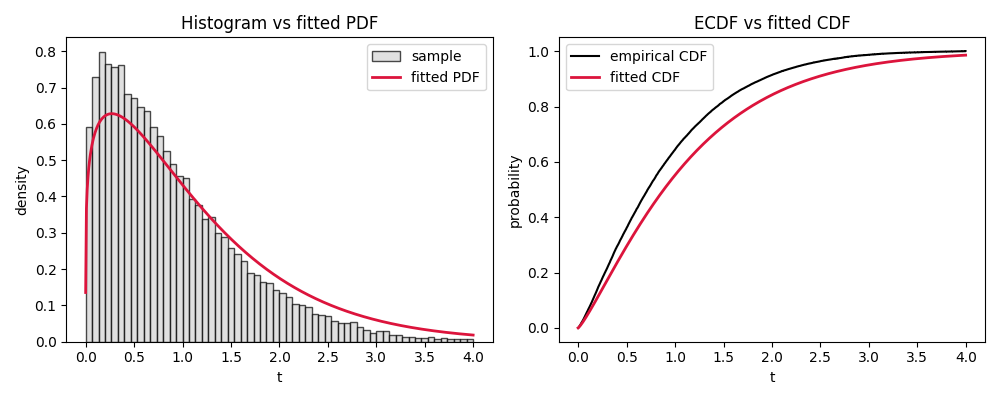
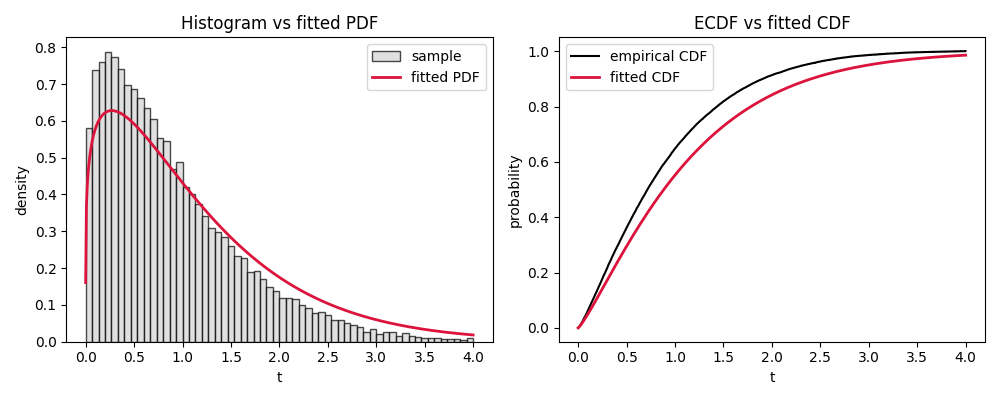
Making Ruff changes

diff --git a/analysis/distributions.py b/analysis/distributions.py
@@ -1,7 +1,7 @@
 import matplotlib.pyplot as plt
 import numpy as np
-from scipy.stats import gamma, lognorm, norm, weibull_min
 from scipy.optimize import minimize
+from scipy.stats import weibull_min
 
 
 def fit_dist(data, nll_func, survival_data=None, initial_params=None):
@@ -28,9 +28,13 @@ def fit_dist(data, nll_func, survival_data=None, initial_params=None):
         initial_params = (1.0, 1.0)
 
     # Minimize the negative log likelihood
-    result = minimize(nll_func, initial_params,
-                      args=(data, survival_data), method='L-BFGS-B',
-                      bounds=((1e-5, None), (1e-5, None)))
+    result = minimize(
+        nll_func,
+        initial_params,
+        args=(data, survival_data),
+        method="L-BFGS-B",
+        bounds=((1e-5, None), (1e-5, None)),
+    )
 
     if result.success:
         return result.x
@@ -38,8 +42,6 @@ def fit_dist(data, nll_func, survival_data=None, initial_params=None):
         raise RuntimeError("Parameter fitting failed.")
 
 
-
-# Weibull distribution class, implements the PDF and CDF, and the log likelihood as above. Change all functions to take only named parameters, so wrap the scipy functions to achieve this. Fit function that updates the parameters.
 class WeibullDistribution:
     """
     Weibull distribution class.
@@ -61,7 +63,7 @@ class WeibullDistribution:
 
     def cdf(self, x):
         return weibull_min.cdf(x, self.shape, scale=self.scale)
-    
+
     def gen_neg_log_likelihood(self, params, data, survival_data=None):
         """
         Compute the log likelihood of the Weibull distribution given the data,
@@ -89,11 +91,11 @@ class WeibullDistribution:
 
         # Add log likelihood for survival data if provided
         if survival_data is not None:
-            log_likelihood += np.sum(weibull_min.logsf(survival_data, shape, scale=scale))
+            log_likelihood += np.sum(
+                weibull_min.logsf(survival_data, shape, scale=scale)
+            )
 
         return -log_likelihood
-        #return weibull_log_likelihood((self.shape, self.scale), data, survival_data)
-    
 
     def neg_log_likelihood(self, data, survival_data=None):
         """
@@ -113,11 +115,14 @@ class WeibullDistribution:
         float
             Log likelihood value.
         """
-        return self.gen_neg_log_likelihood((self.shape, self.scale), data, survival_data)
-    
+        return self.gen_neg_log_likelihood(
+            (self.shape, self.scale), data, survival_data
+        )
+
     def fit(self, data, survival_data=None):
         """
-        Fit the Weibull distribution to the data using maximum likelihood estimation.
+        Fit the Weibull distribution to the data using
+        maximum likelihood estimation.
 
         Parameters
         ----------
@@ -133,12 +138,13 @@ class WeibullDistribution:
             Fitted parameters (shape, scale).
         """
         # Fit the Weibull distribution to the data
-        params = fit_dist(data, self.gen_neg_log_likelihood, survival_data, initial_params=(self.shape, self.scale))
+        params = fit_dist(
+            data,
+            self.gen_neg_log_likelihood,
+            survival_data,
+            initial_params=(self.shape, self.scale),
+        )
         self.shape, self.scale = params
-
-
-
-
 
 
 def plot_fit(samples, dist_obj, output_name, bins=60, title=None):
@@ -170,10 +176,18 @@ def plot_fit(samples, dist_obj, output_name, bins=60, title=None):
         fig.suptitle(title, fontsize=14, y=1.02)
 
     # -------- PDF panel -----------------------------------------------------
-    axs[0].hist(samples, bins=bins, density=True,
-                color="lightgrey", edgecolor="k", alpha=0.7, label="sample")
-    axs[0].plot(x_plot, dist_obj.pdf(x_plot), lw=2, color="crimson",
-                label="fitted PDF")
+    axs[0].hist(
+        samples,
+        bins=bins,
+        density=True,
+        color="lightgrey",
+        edgecolor="k",
+        alpha=0.7,
+        label="sample",
+    )
+    axs[0].plot(
+        x_plot, dist_obj.pdf(x_plot), lw=2, color="crimson", label="fitted PDF"
+    )
     axs[0].set_xlabel("t")
     axs[0].set_ylabel("density")
     axs[0].set_title("Histogram vs fitted PDF")
@@ -182,10 +196,12 @@ def plot_fit(samples, dist_obj, output_name, bins=60, title=None):
     # -------- CDF panel -----------------------------------------------------
     sorted_x = np.sort(samples)
     ecdf = np.arange(1, len(sorted_x) + 1) / len(sorted_x)
-    axs[1].step(sorted_x, ecdf, where="post",
-                color="black", label="empirical CDF")
-    axs[1].plot(x_plot, dist_obj.cdf(x_plot),
-                lw=2, color="crimson", label="fitted CDF")
+    axs[1].step(
+        sorted_x, ecdf, where="post", color="black", label="empirical CDF"
+    )
+    axs[1].plot(
+        x_plot, dist_obj.cdf(x_plot), lw=2, color="crimson", label="fitted CDF"
+    )
     axs[1].set_xlabel("t")
     axs[1].set_ylabel("probability")
     axs[1].set_title("ECDF vs fitted CDF")

diff --git a/analysis/censoring_test.py b/analysis/censoring_test.py
@@ -1,0 +1,109 @@
+from pathlib import Path
+
+import distributions as cd
+import numpy as np
+from scipy.stats import weibull_min
+
+num_pixels = 10000
+time_interval = 4
+
+# Count total time taken
+remaining_times = time_interval * np.ones(num_pixels)
+last_times = np.zeros(num_pixels)
+expand_samples = np.zeros(num_pixels)
+
+dts = []
+
+# Generate Weibull samples
+shape = 1.2
+scale = 1.2
+
+remaining = remaining_times > 0
+
+
+while any(remaining):
+    # Generate Weibull samples for remaining pixels
+
+    expand_samples[remaining] = weibull_min.rvs(
+        shape, scale=scale, size=sum(remaining)
+    )
+    # Check if any samples exceed the remaining time
+    finished = expand_samples > remaining_times
+    # Store the last time for finished pixels
+    last_times[finished & remaining] = remaining_times[finished & remaining]
+    # Update remaining times
+    remaining_times = np.maximum(remaining_times - expand_samples, 0)
+    # Store the new dts for unfinished pixels
+    new_dts = expand_samples[~finished & remaining].tolist()
+    dts = dts + new_dts
+    # Find remaining pixels
+    remaining = remaining_times > 0.0
+
+# Counts of dts and last_times
+num_dts = len(dts)
+num_last_times = len(last_times)
+print(f"Number of dts: {num_dts}")
+print(f"Number of last_times: {num_last_times}")
+
+
+# Check total time taken
+total_time = np.sum(dts) + np.sum(last_times)
+print(f"Total time taken: {total_time}")
+# Original time
+print(f"Original time: {time_interval * num_pixels}")
+
+# Produce fit ignoring sensoring
+
+fitter = cd.WeibullDistribution(1.0, 1.0)
+fitter.fit(dts)
+# Fit Weibull distribution to the samples
+print(
+    f"Fitted Weibull parameters: shape = {fitter.shape}, scale = {fitter.scale}"
+)
+
+print(
+    "Neg Log likelihood of the fitted Weibull "
+    f"distribution: {fitter.neg_log_likelihood(dts)}"
+)
+print(
+    "Neg Log likelihood of the fitted Weibull distribution"
+    f" with censoring: {fitter.neg_log_likelihood(dts, last_times)}"
+)
+# Now fit with censoring
+
+
+fitter_censor = cd.WeibullDistribution(1.0, 1.0)
+fitter_censor.fit(dts, last_times)
+# Fit Weibull distribution to the samples
+print(
+    "Fitted Weibull parameters with censoring: "
+    f"shape = {fitter_censor.shape}, scale = {fitter_censor.scale}"
+)
+
+print(
+    "Neg Log likelihood of the fitted Weibull "
+    f"distribution: {fitter_censor.neg_log_likelihood(dts)}"
+)
+print(
+    "Neg Log likelihood of the fitted Weibull distribution "
+    f"with censoring: {fitter_censor.neg_log_likelihood(dts, last_times)}"
+)
+
+# Create fit object with actual params
+
+actual = cd.WeibullDistribution(shape, scale)
+
+print(
+    "Neg Log likelihood of the fitted Weibull "
+    f"distribution: {actual.neg_log_likelihood(dts)}"
+)
+print(
+    "Neg Log likelihood of the fitted Weibull distribution "
+    f"with censoring: {actual.neg_log_likelihood(dts, last_times)}"
+)
+
+out_dir = Path("analysis/Outputs")
+
+cd.plot_fit(dts, fitter, out_dir / "WeibullFitNoCensor.png")
+cd.plot_fit(dts, fitter_censor, out_dir / "WeibullFitCensor.png")
+cd.plot_fit(dts, actual, out_dir / "WeibullFitActual.png")
